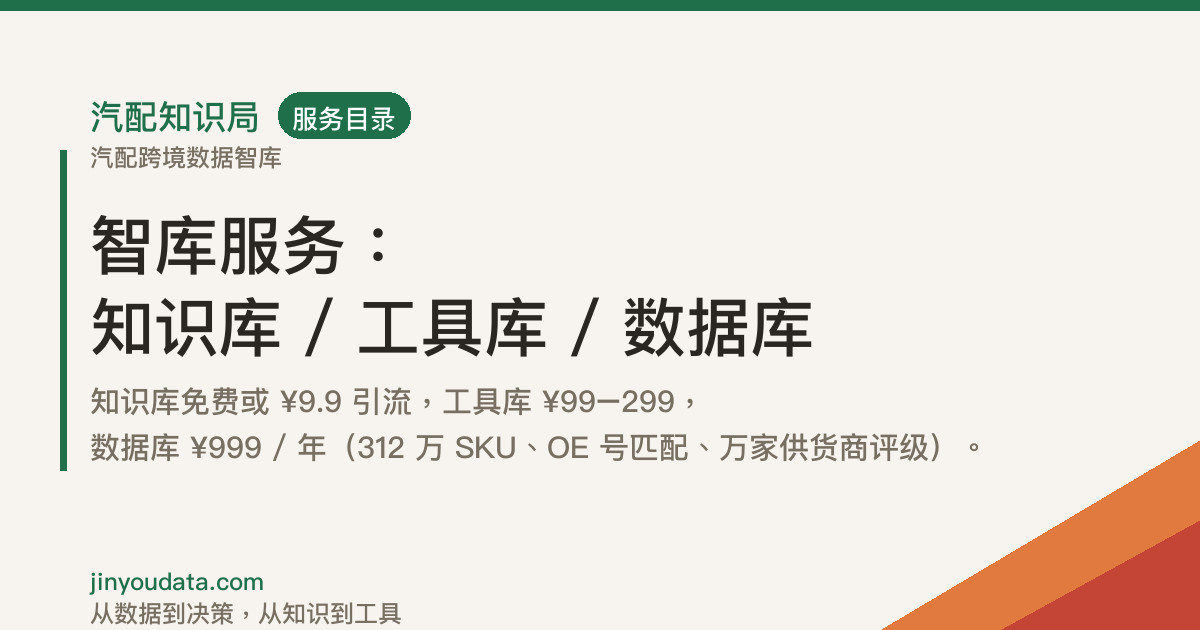
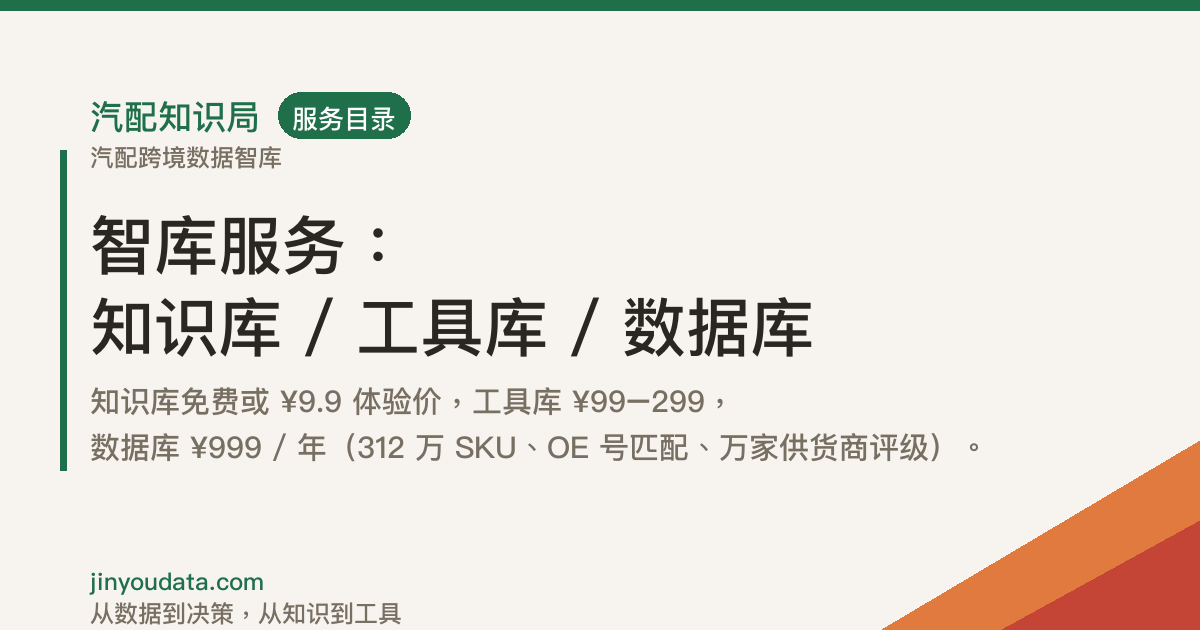
文案终极降噪：删「三层资产，缺什么补什么」、页脚菜单改「数据库」、¥9.9 引流价改体验价；同步首页/报告/AI/结构化数据/OG 用词

Changed region(s): [[0.2775, 0.6032, 0.5858, 0.6635]]

diff --git a/app/api/ai/route.ts b/app/api/ai/route.ts
@@ -16,7 +16,7 @@ const BodySchema = z.object({
     .max(20),
 });
 
-const SYSTEM_PROMPT = `你是「汽配知识局」官网的 AI 助手。汽配知识局是专注汽配跨境的数据智库，服务分三库：知识库（避坑指南、行业报告、合规 SOP，免费或 ¥9.9 引流）、工具库（选品评分表、核价毛利计算器、库存周转模板，¥99–299）、数据库（金游智库·专属查询账号，¥999/年，312 万 SKU、OE 号匹配、万家供货商评级）。另有定制咨询、SaaS 与 AI 数据标注/模型训练合作。核心卖点是数据库账号。
+const SYSTEM_PROMPT = `你是「汽配知识局」官网的 AI 助手。汽配知识局是专注汽配跨境的数据智库，服务分三个板块：知识库（避坑指南、行业报告、合规 SOP，免费或 ¥9.9 体验价）、工具库（选品评分表、核价毛利计算器、库存周转模板，¥99–299）、数据库（金游智库·专属查询账号，¥999/年，312 万 SKU、OE 号匹配、万家供货商评级）。另有定制咨询、SaaS 与 AI 数据标注/模型训练合作。核心卖点是数据库账号。
 
 你的职责：
 1. 用中文回答汽配行业相关问题，专业、直接、给具体动作，不说空话。
@@ -33,7 +33,7 @@ function fallbackReply(lastUserMessage: string): string {
     return "免费资料（SOP 清单、报告摘要、模板库）都由主理人一对一发送，扫码添加企业微信、备注「官网」即可领取。";
   }
   if (/价格|收费|多少钱|费用/.test(t)) {
-    return "三库：知识库免费或 ¥9.9 引流，工具库 ¥99–299，数据库 ¥999/年（312 万 SKU、OE 号匹配、万家供货商评级，开通金游数据智库账号）。定制咨询 ¥30,000 起/项目。具体看 /products。";
+    return "三个板块：知识库免费或 ¥9.9 体验价，工具库 ¥99–299，数据库 ¥999/年（312 万 SKU、OE 号匹配、万家供货商评级，开通金游数据智库账号）。定制咨询 ¥30,000 起/项目。具体看 /products。";
   }
   if (/合作|AI|标注|语料|评测|SaaS/.test(t)) {
     return "AI 数据合作（语料授权、标注规则、评测标准共建）和 SaaS 合作在 /partners，签 DPA 后启动。可以先在 /contact 提交意向。";

diff --git a/lib/data.ts b/lib/data.ts
@@ -8,7 +8,7 @@ import { fetchTable } from "./supabase";
    ============================================================ */
 
 export const FALLBACK_PRODUCTS: Product[] = [
-  /* ================= 板块一 · 知识库（免费 / ¥9.9 引流 · 构建行业认知） ================= */
+  /* ================= 板块一 · 知识库（免费 / ¥9.9 体验价 · 构建行业认知） ================= */
   {
     id: 4, slug: "knowledge-base", name: "避坑指南", icon: "book-open", library: "kb", category: "knowledge",
     positioning: "12,000+ 条踩过的坑，按场景一条条写清楚",
@@ -24,7 +24,7 @@ export const FALLBACK_PRODUCTS: Product[] = [
     problem: "决策缺数据支撑，拍脑袋交学费",
     audience: "需要决策依据的经营者与平台团队",
     deliverable: "完整报告文档 · 数据来源与口径全部注明",
-    price: "¥9.9 · 引流价",
+    price: "¥9.9 · 体验价",
     cta_type: "buy", third_party_url: null, third_party_platform: "企业微信", planet_url: null,
   },
   {
@@ -51,7 +51,7 @@ export const FALLBACK_PRODUCTS: Product[] = [
     problem: "想提效但不知道好用的表格长什么样",
     audience: "有现成业务、想立刻提效的团队",
     deliverable: "选品评分表 / 供应商评估表 / 库存周转表 / 客服话术库",
-    price: "¥9.9 · 引流价",
+    price: "¥9.9 · 体验价",
     cta_type: "buy", third_party_url: null, third_party_platform: "企业微信", planet_url: null,
   },
   {

diff --git a/app/products/page.tsx b/app/products/page.tsx
@@ -16,7 +16,7 @@ export const runtime = "edge";
 export const metadata: Metadata = buildMetadata({
   title: "服务目录",
   description:
-    "智库服务：知识库（免费 / ¥9.9 引流，构建行业认知）→ 工具库（¥99 – ¥299，现成工具直接落地）→ 数据库（¥999 / 年，金游智库专属查询账号，看透真实利润）。",
+    "智库服务：知识库（免费 / ¥9.9 体验价，构建行业认知）→ 工具库（¥99 – ¥299，现成工具直接落地）→ 数据库（¥999 / 年，金游智库专属查询账号，看透真实利润）。",
   path: "/products",
   keywords: [KEYWORDS.data, KEYWORDS.oe, KEYWORDS.vin, KEYWORDS.knowledge, KEYWORDS.sop],
 });
@@ -46,7 +46,7 @@ export default async function ProductsPage({
       <PageHero
         tag="CATALOG"
         title="服务目录：知识库、工具库、数据库"
-        desc="三层资产，缺什么补什么：先用知识库把行业看明白，再用工具库把动作做出结果，最后用数据库看透自己的真实利润。"
+        desc="先用知识库把行业看明白，再用工具库把动作做出结果，最后用数据库看透自己的真实利润。"
       />
 
       {/* 身份筛选提示条：从首页四类入口进来时展示 */}

diff --git a/components/site/json-ld.tsx b/components/site/json-ld.tsx
@@ -34,7 +34,7 @@ export function organizationSchema() {
       addressCountry: "CN",
     },
     description:
-      "专注汽配跨境的数据智库：知识库、工具库、数据库三层资产。提供避坑指南、行业报告、合规 SOP，选品评分表、核价毛利计算器、库存周转模板，以及 312 万 SKU 金游数据智库账号（OE 号匹配、万家供货商评级）；另做定制咨询与 AI 数据标注合作。",
+      "专注汽配跨境的数据智库：知识库、工具库、数据库三个板块。提供避坑指南、行业报告、合规 SOP，选品评分表、核价毛利计算器、库存周转模板，以及 312 万 SKU 金游数据智库账号（OE 号匹配、万家供货商评级）；另做定制咨询与 AI 数据标注合作。",
     areaServed: { "@type": "Country", name: "CN" },
     knowsAbout: [
       "汽配数据",

diff --git a/lib/types.ts b/lib/types.ts
@@ -5,7 +5,7 @@
 export type CtaType = "claim" | "buy" | "consult";
 
 /* ------------------------------------------------------------------
-   三库商业矩阵（2026-11-14 定调）
+   智库服务 · 三个板块（2026-11-14 定调）
    全站不再使用「流量层 / 信任层 / 转化层 / 交付层」这类内部黑话，
    也不再有「四档」说法：所有产品只归入三个板块。
    ------------------------------------------------------------------ */
@@ -19,7 +19,7 @@ export const LIBRARIES: Record<
     name: "知识库",
     en: "KNOWLEDGE",
     tagline: "构建行业认知",
-    price: "免费 / ¥9.9 引流",
+    price: "免费 / ¥9.9 体验价",
     goal: "先把行业看明白",
     note: "避坑指南、行业报告、合规 SOP —— 让你在动手之前就知道哪里会踩坑。",
   },

diff --git a/app/reports/page.tsx b/app/reports/page.tsx
@@ -15,7 +15,7 @@ import { getProducts } from "@/lib/data";
 
 export const metadata: Metadata = buildMetadata({
   title: "报告与数据产品",
-  description: "行业报告（品类数据、价格带、竞争格局、趋势预判，¥9.9 引流）与数据库会员（金游智库·专属查询账号，Client 只读，312 万 SKU 无限次查询，¥999 / 年）。",
+  description: "行业报告（品类数据、价格带、竞争格局、趋势预判，¥9.9 体验价）与数据库会员（金游智库·专属查询账号，Client 只读，312 万 SKU 无限次查询，¥999 / 年）。",
   path: "/reports",
   keywords: [KEYWORDS.data, KEYWORDS.nev, KEYWORDS.compliance, KEYWORDS.oe],
 });

diff --git a/app/page.tsx b/app/page.tsx
@@ -146,7 +146,7 @@ export default async function HomePage() {
       <section className="border-y border-brand-orange/20 bg-brand-cream">
         <div className="container-site flex flex-col items-start gap-5 py-8 md:flex-row md:items-center md:justify-between md:gap-10 md:py-10">
           <p className="text-base font-medium leading-relaxed md:text-lg">
-            知识库建认知，工具库做落地，数据库看利润——三层资产，缺什么补什么。
+            知识库建认知，工具库做落地，数据库看利润。
           </p>
           <Button asChild variant="outline" size="default" className="shrink-0">
             <Link href="/products">

diff --git a/components/site/footer.tsx b/components/site/footer.tsx
@@ -10,7 +10,7 @@ const COLS: { title: string; links: { href: string; label: string }[] }[] = [
       { href: "/products", label: "服务目录" },
       { href: "/products#lib-kb", label: "知识库" },
       { href: "/products#lib-tools", label: "工具库" },
-      { href: "/products#lib-data", label: "数据库（金游智库账号）" },
+      { href: "/products#lib-data", label: "数据库" },
       { href: "/consulting", label: "定制咨询" },
       { href: "/partners", label: "SaaS与AI合作" },
     ],

diff --git a/app/products/[slug]/page.tsx b/app/products/[slug]/page.tsx
@@ -49,7 +49,7 @@ export async function generateMetadata({
     description: `${product.positioning}。适合${product.audience}；解决：${product.problem}；交付：${product.deliverable}；${product.price}。`,
     path: `/products/${product.slug}`,
     ogImage: `/og/products-${product.slug}.png`,
-    keywords: [product.name, LIBRARIES[product.library].name, "三库", "汽配数据"],
+    keywords: [product.name, LIBRARIES[product.library].name, "智库服务", "汽配数据"],
   });
 }
 

diff --git a/scripts/gen-og.py b/scripts/gen-og.py
@@ -122,7 +122,7 @@ def draw_og(path: Path, title: str, desc: str, tag: str = "") -> None:
 # ---------- 页面清单 ----------
 PAGES = [
     ("default", "用数据洞察，化繁为金", "专注汽配跨境的数据智库：查得到的知识库 · 用得上的工具库 ·\n看透利润的数据库（312 万 SKU）", ""),
-    ("products", "智库服务：\n知识库 / 工具库 / 数据库", "知识库免费或 ¥9.9 引流，工具库 ¥99–299，\n数据库 ¥999 / 年（312 万 SKU、OE 号匹配、万家供货商评级）。", "服务目录"),
+    ("products", "智库服务：\n知识库 / 工具库 / 数据库", "知识库免费或 ¥9.9 体验价，工具库 ¥99–299，\n数据库 ¥999 / 年（312 万 SKU、OE 号匹配、万家供货商评级）。", "服务目录"),
     ("knowledge", "汽配知识库与 SOP", "12,000+ 条目的名词库、适配库、政策库、避坑库，加 6 套可打印照做的 SOP 清单与表格模板。", "知识库"),
     ("data-subscription", "数据库：312 万 SKU，看透真实利润", "开通金游智库专属查询账号：312 万 SKU 检索、OE 号匹配、万家供货商评级，¥999 / 年。", "数据库"),
     ("reports", "行业报告与金游智库账号", "品类数据、价格带、竞争格局、趋势预判；金游智库·专属查询账号按 OE 号、品牌、毛利区间自由检索 312 万条底层数据。", "报告数据"),
